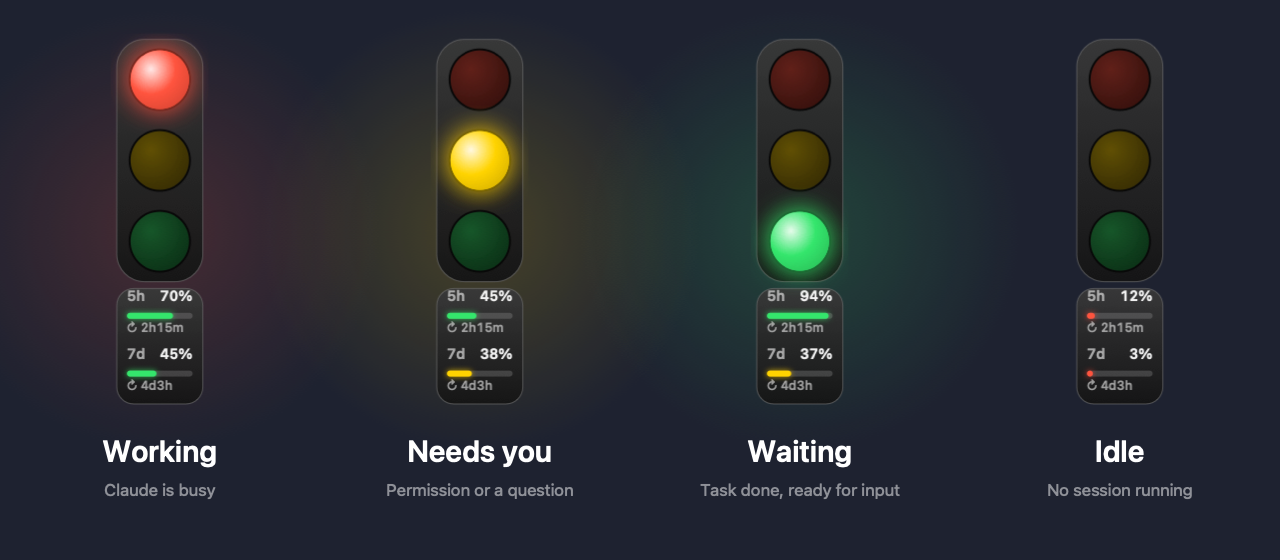
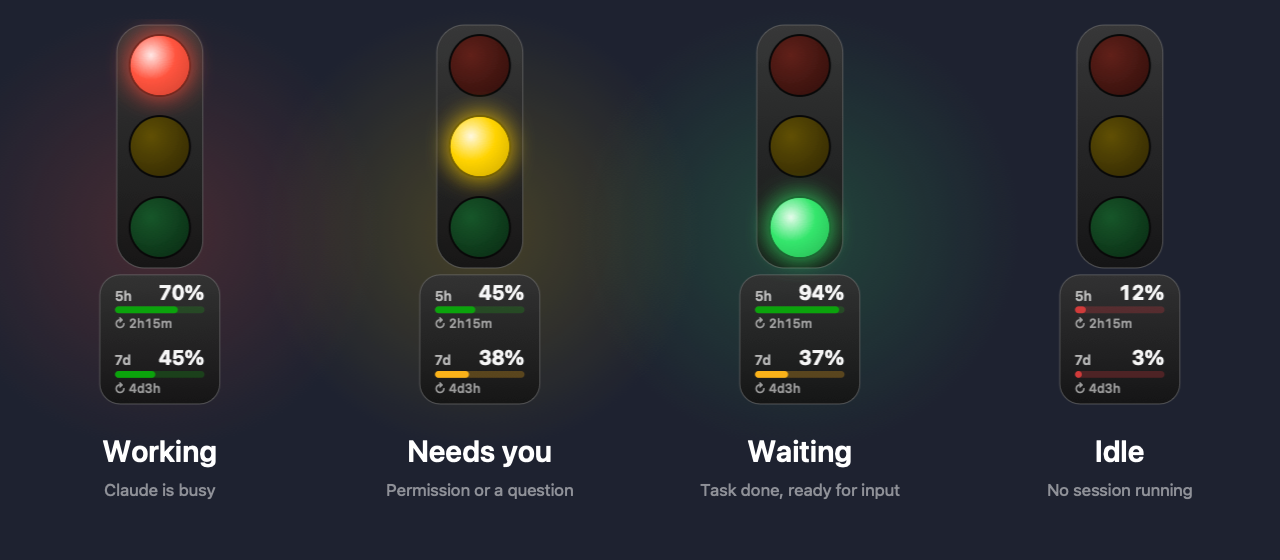
Redesign quota display: status-colour meters, two-row menu bar readout
- Gauge: wider plinth card, large percentage, thin rounded status-colour
  bars on a lighter same-hue track, countdown line; no glow
- Menu bar: custom two-row image (5h above 7d) with bar, remaining % and
  countdown; adapts to light/dark menu bars; emoji fallback when off
- README images (banner, states, menu bar preview) regenerated

diff --git a/Sources/main.swift b/Sources/main.swift
@@ -349,11 +349,21 @@ enum QuotaFetcher {
     }
 }
 
+/// Statusfarben für Restkontingent (fest, nie themenabhängig): gut / Warnung / kritisch.
+func quotaStatusColor(_ remaining: Double) -> NSColor {
+    if remaining > 40 { return NSColor(srgbRed: 0x0c / 255, green: 0xa3 / 255, blue: 0x0c / 255, alpha: 1) }
+    if remaining > 15 { return NSColor(srgbRed: 0xfa / 255, green: 0xb2 / 255, blue: 0x19 / 255, alpha: 1) }
+    return NSColor(srgbRed: 0xd0 / 255, green: 0x3b / 255, blue: 0x3b / 255, alpha: 1)
+}
+
 // MARK: - Ampel-Darstellung
 
 final class TrafficLightView: NSView {
     /// Höhe des Kontingent-Bereichs unter der Ampel (bei Skalierung 1.0)
-    static let gaugeAreaHeight: CGFloat = 72
+    static let gaugeAreaHeight: CGFloat = 80
+    /// Breite des Fensters mit / ohne Kontingent-Sockel (bei Skalierung 1.0)
+    static let panelWidth: CGFloat = 58
+    static let panelWidthWithQuota: CGFloat = 78
 
     var state: LightState = .off { didSet { needsDisplay = true } }
     var quota: QuotaSnapshot? { didSet { needsDisplay = true } }
@@ -365,7 +375,7 @@ final class TrafficLightView: NSView {
     override var mouseDownCanMoveWindow: Bool { true }
     override func rightMouseDown(with event: NSEvent) { onRightClick?(event) }
 
-    private func color(for s: LightState) -> NSColor {
+    func color(for s: LightState) -> NSColor {
         switch s {
         case .red: return NSColor(calibratedRed: 1.0, green: 0.23, blue: 0.19, alpha: 1)
         case .yellow: return NSColor(calibratedRed: 1.0, green: 0.80, blue: 0.0, alpha: 1)
@@ -374,15 +384,11 @@ final class TrafficLightView: NSView {
         }
     }
 
-    private func quotaColor(_ remaining: Double) -> NSColor {
-        remaining > 40 ? color(for: .green) : remaining > 15 ? color(for: .yellow) : color(for: .red)
-    }
-
     /// Zeichnet die Kapsel mit den zwei Restanzeigen (5h / 7d).
     private func drawGauge(in rect: NSRect) {
         let s = uiScale
-        let capsule = NSBezierPath(roundedRect: rect, xRadius: 10 * s, yRadius: 10 * s)
-        NSGradient(starting: NSColor(white: 0.22, alpha: 0.96), ending: NSColor(white: 0.08, alpha: 0.96))?
+        let capsule = NSBezierPath(roundedRect: rect, xRadius: 12 * s, yRadius: 12 * s)
+        NSGradient(starting: NSColor(white: 0.20, alpha: 0.96), ending: NSColor(white: 0.08, alpha: 0.96))?
             .draw(in: capsule, angle: -90)
         NSColor(white: 0.45, alpha: 0.6).setStroke()
         capsule.lineWidth = 1
@@ -391,56 +397,46 @@ final class TrafficLightView: NSView {
         let dim: CGFloat = (quota?.isStale ?? false) ? 0.5 : 1.0
         let rows: [(String, QuotaWindow?)] = [("5h", quota?.fiveHour), ("7d", quota?.sevenDay)]
         let rowH = rect.height / 2
-        let inset = 6 * s
-        let font = NSFont.monospacedDigitSystemFont(ofSize: 8.5 * s, weight: .semibold)
-        let barH = 3.5 * s
-        let small = NSFont.monospacedDigitSystemFont(ofSize: 7.5 * s, weight: .medium)
+        let x = rect.minX + 9 * s
+        let w = rect.width - 18 * s
+        let labelFont = NSFont.systemFont(ofSize: 8 * s, weight: .semibold)
+        let pctFont = NSFont.monospacedDigitSystemFont(ofSize: 12 * s, weight: .bold)
+        let smallFont = NSFont.monospacedDigitSystemFont(ofSize: 7.5 * s, weight: .medium)
+        let barH = 4 * s
+        let gap = 3.5 * s
+
+        func draw(_ str: String, _ font: NSFont, _ alpha: CGFloat, baseline: CGFloat, right: Bool = false) {
+            let a = NSAttributedString(string: str, attributes: [
+                .font: font, .foregroundColor: NSColor(white: 1, alpha: alpha * dim)])
+            a.draw(at: NSPoint(x: right ? x + w - a.size().width : x, y: baseline + font.descender))
+        }
 
         for (i, row) in rows.enumerated() {
-            let rowTop = rect.maxY - rowH * CGFloat(i)
-            let contentH = font.capHeight + 3 * s + barH + 5.5 * s + small.capHeight
-            let contentBottom = rowTop - rowH / 2 - contentH / 2
-            let bottom = contentBottom + small.capHeight + 5.5 * s   // Unterkante des Balkens
-            let x = rect.minX + inset
-            let w = rect.width - inset * 2
+            let contentH = pctFont.capHeight + gap + barH + gap + smallFont.capHeight
+            let top = rect.maxY - rowH * (CGFloat(i) + 0.5) + contentH / 2
+            let line1 = top - pctFont.capHeight
+            let barY = line1 - gap - barH
+            let line3 = barY - gap - smallFont.capHeight
 
-            // Restzeit bis zum Reset
-            let cdText = row.1 == nil ? "" : "↻ " + (row.1?.countdown ?? "…")
-            NSAttributedString(string: cdText, attributes: [
-                .font: small, .foregroundColor: NSColor(white: 1, alpha: 0.5 * dim)])
-                .draw(at: NSPoint(x: x, y: contentBottom - small.descender))
+            draw(row.0, labelFont, 0.62, baseline: line1)
+            let remaining = row.1?.remaining
+            let tint = remaining.map { quotaStatusColor($0) } ?? NSColor(white: 1, alpha: 1)
 
-            // Balken
-            let track = NSRect(x: x, y: bottom, width: w, height: barH)
-            NSColor(white: 1, alpha: 0.12).setFill()
+            // Spur = hellere Stufe derselben Farbe, Füllung = Statusfarbe (dünn, voll gerundet)
+            let track = NSRect(x: x, y: barY, width: w, height: barH)
+            tint.withAlphaComponent(remaining == nil ? 0.12 : 0.22).setFill()
             NSBezierPath(roundedRect: track, xRadius: barH / 2, yRadius: barH / 2).fill()
 
-            let textY = bottom + barH + 3 * s - font.descender
-            let label = NSAttributedString(string: row.0, attributes: [
-                .font: font, .foregroundColor: NSColor(white: 1, alpha: 0.55 * dim)])
-            label.draw(at: NSPoint(x: x, y: textY))
-
             if let win = row.1 {
-                let c = quotaColor(win.remaining).withAlphaComponent(dim)
-                let fill = NSRect(x: x, y: bottom, width: max(barH, w * CGFloat(win.remaining / 100)), height: barH)
                 if win.remaining > 0 {
-                    NSGraphicsContext.saveGraphicsState()
-                    let glow = NSShadow()
-                    glow.shadowColor = c.withAlphaComponent(0.6)
-                    glow.shadowBlurRadius = 3 * s
-                    glow.shadowOffset = .zero
-                    glow.set()
-                    c.setFill()
+                    let fill = NSRect(x: x, y: barY, width: max(barH, w * CGFloat(win.remaining / 100)), height: barH)
+                    tint.withAlphaComponent(dim).setFill()
                     NSBezierPath(roundedRect: fill, xRadius: barH / 2, yRadius: barH / 2).fill()
-                    NSGraphicsContext.restoreGraphicsState()
                 }
-                let pct = NSAttributedString(string: "\(Int(win.remaining.rounded()))%", attributes: [
-                    .font: font, .foregroundColor: NSColor(white: 1, alpha: 0.92 * dim)])
-                pct.draw(at: NSPoint(x: x + w - pct.size().width, y: textY))
+                draw("\(Int(win.remaining.rounded()))%", pctFont, 0.95, baseline: line1, right: true)
+                draw("↻ " + (win.countdown ?? "…"), smallFont, 0.5, baseline: line3)
             } else {
-                let pct = NSAttributedString(string: "--", attributes: [
-                    .font: font, .foregroundColor: NSColor(white: 1, alpha: 0.35)])
-                pct.draw(at: NSPoint(x: x + w - pct.size().width, y: textY))
+                draw("--", pctFont, 0.35, baseline: line1, right: true)
             }
         }
     }
@@ -448,12 +444,16 @@ final class TrafficLightView: NSView {
     override func draw(_ dirtyRect: NSRect) {
         let pad: CGFloat = 6   // Platz für den Leuchtschein
         var lightsBounds = bounds
+        var housingW = bounds.width - pad * 2
         if showQuota {
             let gaugeH = Self.gaugeAreaHeight * uiScale
             lightsBounds = NSRect(x: 0, y: gaugeH, width: bounds.width, height: bounds.height - gaugeH)
+            housingW = Self.panelWidth * uiScale - pad * 2
             drawGauge(in: NSRect(x: pad, y: pad, width: bounds.width - pad * 2, height: gaugeH - 4 * uiScale))
         }
-        let body = lightsBounds.insetBy(dx: pad, dy: pad)
+        let inner = lightsBounds.insetBy(dx: 0, dy: pad)
+        let body = NSRect(x: lightsBounds.midX - housingW / 2, y: inner.minY, width: housingW, height: inner.height)
+
         let radius = body.width * 0.32
 
         // Gehäuse
@@ -563,14 +563,16 @@ final class AppDelegate: NSObject, NSApplicationDelegate, NSMenuDelegate {
     // MARK: Schwebendes Fenster
 
     private var baseSize: NSSize {
-        NSSize(width: 58 * scale, height: (150 + (showQuota ? TrafficLightView.gaugeAreaHeight : 0)) * scale)
+        NSSize(width: (showQuota ? TrafficLightView.panelWidthWithQuota : TrafficLightView.panelWidth) * scale,
+               height: (150 + (showQuota ? TrafficLightView.gaugeAreaHeight : 0)) * scale)
     }
 
     /// Fenstergröße anpassen; die Oberkante bleibt an Ort und Stelle.
     private func applyPanelSize() {
         let top = panel.frame.maxY
+        let midX = panel.frame.midX   // Mitte bleibt, wenn sich die Breite ändert
         let size = baseSize
-        panel.setFrame(NSRect(x: panel.frame.minX, y: top - size.height, width: size.width, height: size.height), display: true)
+        panel.setFrame(NSRect(x: midX - size.width / 2, y: top - size.height, width: size.width, height: size.height), display: true)
         lightView.uiScale = scale
         lightView.showQuota = showQuota
     }
@@ -634,7 +636,7 @@ final class AppDelegate: NSObject, NSApplicationDelegate, NSMenuDelegate {
             lightView.state = state
             lightView.blinkOn = true
         }
-        statusItem.button?.attributedTitle = statusTitle(state)
+        updateStatusItem(state)
         let minute = Int(Date().timeIntervalSince1970 / 60)
         if minute != lastMinute { lastMinute = minute; lightView.needsDisplay = true }
         statusItem.button?.toolTip = "Claude Code 红绿灯 – " + (monitoringEnabled ? state.label : "已暂停")
@@ -643,18 +645,73 @@ final class AppDelegate: NSObject, NSApplicationDelegate, NSMenuDelegate {
         refreshQuotaIfNeeded()
     }
 
-    /// Menüleisten-Titel: Ampel-Emoji + Rest-% und Zeit bis zum Reset je Fenster.
-    private func statusTitle(_ state: LightState) -> NSAttributedString {
-        let font = NSFont.monospacedDigitSystemFont(ofSize: 11, weight: .medium)
-        guard monitoringEnabled else { return NSAttributedString(string: "⚫", attributes: [.font: font]) }
-        var text = state.emoji
-        if showQuota, showStatusQuota, let q = quota {
-            for (name, w) in [("5h", q.fiveHour), ("7d", q.sevenDay)] {
-                guard let w else { continue }
-                text += " \(name) \(Int(w.remaining.rounded()))%·\(w.countdown ?? "…")"
-            }
+    private var statusKey = ""
+
+    /// Menüleiste: Ampelpunkt + zwei Zeilen (5h oben, 7d unten) mit Balken, Rest-% und Zeit bis zum Reset.
+    private func updateStatusItem(_ state: LightState) {
+        guard let button = statusItem.button else { return }
+        let rows: [(String, QuotaWindow)] = monitoringEnabled && showQuota && showStatusQuota
+            ? [("5h", quota?.fiveHour), ("7d", quota?.sevenDay)].compactMap { n, w in w.map { (n, $0) } } : []
+        let key = "\(monitoringEnabled)|\(state)|" + rows.map { "\($0.0)\(Int($0.1.remaining.rounded()))\($0.1.countdown ?? "…")" }.joined(separator: "|")
+        guard key != statusKey else { return }
+        statusKey = key
+
+        guard !rows.isEmpty else {   // klassisch: nur Emoji
+            button.image = nil
+            button.imagePosition = .noImage
+            button.attributedTitle = NSAttributedString(string: monitoringEnabled ? state.emoji : "⚫",
+                                                        attributes: [.font: NSFont.systemFont(ofSize: 13)])
+            return
         }
-        return NSAttributedString(string: text, attributes: [.font: font])
+        button.title = ""
+        button.imagePosition = .imageOnly
+        button.image = statusImage(lamp: lightView.color(for: state), lit: state != .off, rows: rows)
+    }
+
+    private func statusImage(lamp: NSColor, lit: Bool, rows: [(String, QuotaWindow)]) -> NSImage {
+        let h: CGFloat = 22, lampD: CGFloat = 10
+        let labelFont = NSFont.systemFont(ofSize: 7.5, weight: .semibold)
+        let pctFont = NSFont.monospacedDigitSystemFont(ofSize: 8.5, weight: .bold)
+        let timeFont = NSFont.monospacedDigitSystemFont(ofSize: 7.5, weight: .medium)
+        let labelW: CGFloat = 11, barW: CGFloat = 34, barH: CGFloat = 3.5, pctW: CGFloat = 23, timeW: CGFloat = 29
+        let x0: CGFloat = 4 + lampD + 6
+        let width = x0 + labelW + barW + 4 + pctW + 3 + timeW + 3
+
+        return NSImage(size: NSSize(width: width, height: h), flipped: false) { _ in
+            // Ampelpunkt
+            let dot = NSRect(x: 4, y: (h - lampD) / 2, width: lampD, height: lampD)
+            NSGraphicsContext.saveGraphicsState()
+            if lit {
+                let g = NSShadow(); g.shadowColor = lamp.withAlphaComponent(0.8); g.shadowBlurRadius = 3; g.shadowOffset = .zero; g.set()
+            }
+            (lit ? lamp : NSColor.secondaryLabelColor).setFill()
+            NSBezierPath(ovalIn: dot).fill()
+            NSGraphicsContext.restoreGraphicsState()
+
+            func text(_ str: String, _ font: NSFont, _ color: NSColor, x: CGFloat, baseline: CGFloat, width: CGFloat = 0, right: Bool = false) {
+                let a = NSAttributedString(string: str, attributes: [.font: font, .foregroundColor: color])
+                a.draw(at: NSPoint(x: right ? x + width - a.size().width : x, y: baseline + font.descender))
+            }
+            for (i, row) in rows.enumerated() {
+                let mid = h / 2 + (i == 0 ? 5.5 : -5.5)
+                let base = mid - pctFont.capHeight / 2
+                let tint = quotaStatusColor(row.1.remaining)
+                text(row.0, labelFont, .secondaryLabelColor, x: x0, baseline: mid - labelFont.capHeight / 2)
+
+                let bar = NSRect(x: x0 + labelW, y: mid - barH / 2, width: barW, height: barH)
+                tint.withAlphaComponent(0.25).setFill()
+                NSBezierPath(roundedRect: bar, xRadius: barH / 2, yRadius: barH / 2).fill()
+                if row.1.remaining > 0 {
+                    var f = bar; f.size.width = max(barH, barW * CGFloat(row.1.remaining / 100))
+                    tint.setFill()
+                    NSBezierPath(roundedRect: f, xRadius: barH / 2, yRadius: barH / 2).fill()
+                }
+                let px = x0 + labelW + barW + 4
+                text("\(Int(row.1.remaining.rounded()))%", pctFont, .labelColor, x: px, baseline: base, width: pctW, right: true)
+                text(row.1.countdown ?? "…", timeFont, .secondaryLabelColor, x: px + pctW + 3, baseline: mid - timeFont.capHeight / 2, width: timeW, right: true)
+            }
+            return true
+        }
     }
 
     private func refreshQuotaIfNeeded() {

diff --git a/README.de.md b/README.de.md
@@ -27,7 +27,10 @@ Lumen schwebt über allen Fenstern (und in der Menüleiste) und zeigt auf einen 
 - **Vier Zustände**, gesteuert über Claude-Code-Hooks – kein Auslesen der Terminalausgabe
 - **Mehrere Sessions**: Bei mehreren laufenden Sessions gewinnt die dringendste (🟡 > 🔴 > 🟢)
 - **Kontingent-Anzeige**: verbleibende Prozent für das 5h- und 7d-Fenster, farbige Balken und ein Live-Countdown bis zum nächsten Reset
-- **Menüleisten-Anzeige**: z. B. `🟢 5h 94%·2h14m 7d 37%·4d3h` – verbleibendes Kontingent und Zeit bis zum Reset immer im Blick
+- **Menüleisten-Anzeige**: zwei Zeilen (5h oben, 7d unten) mit Balken, verbleibenden Prozent und Zeit bis zum Reset – immer im Blick
+
+<p align="center"><img src="docs/menubar.png" alt="Menüleisten-Anzeige (dunkel / hell)" width="360"></p>
+
 - Drei Größen, Start bei der Anmeldung, Hooks mit einem Klick entfernen, keine Abhängigkeiten
 
 | Licht | Bedeutung | Ausgelöst durch |
@@ -59,7 +62,7 @@ Beim ersten Start trägt Lumen seine Hooks in `~/.claude/settings.json` ein (das
 Angezeigt wird, was **übrig** ist – nicht, was verbraucht wurde:
 
 - Balkenfarbe: > 40 % grün, 15–40 % gelb, < 15 % rot. `--` heißt: noch keine Daten; Werte, die älter als 10 Minuten sind, werden abgedunkelt
-- `↻ 2h14m` unter jedem Balken ist die Zeit bis zum Reset des Fensters; dieselben Werte stehen in der Menüleiste (`5h 94%·2h14m`). Mit dem Mauszeiger über der Ampel oder im Menü siehst du den genauen Zeitpunkt
+- `↻ 2h14m` unter jedem Balken ist die Zeit bis zum Reset des Fensters; dieselben Werte stehen in der Menüleiste (zwei Balken). Mit dem Mauszeiger über der Ampel oder im Menü siehst du den genauen Zeitpunkt
 - Sobald ein Fenster zurückgesetzt wird, aktualisiert Lumen die Werte sofort
 - Die Menüleisten-Anzeige lässt sich im Menü separat ausschalten
 - **Datenquelle:** Alle 3 Minuten liest Lumen das OAuth-Token von Claude Code aus dem macOS-Schlüsselbund (`Claude Code-credentials`) und ruft `api.anthropic.com/api/oauth/usage` auf. Das ist ein **nicht dokumentierter Endpunkt**, der sich jederzeit ändern oder wegfallen kann. Das Token wird nur für diese Anfrage verwendet und nie gespeichert

diff --git a/README.md b/README.md
@@ -27,7 +27,10 @@ Lumen sits on top of your windows (and in the menu bar) and tells you at a glanc
 - **Four states** driven by Claude Code hooks – no polling of terminal output
 - **Multi-session aware** – with several sessions running, the most urgent one wins (🟡 > 🔴 > 🟢)
 - **Quota gauge** – remaining % for the 5h and 7d windows with colour-coded bars and a live countdown to the next reset
-- **Menu bar readout** – e.g. `🟢 5h 94%·2h14m 7d 37%·4d3h`: remaining quota and time until reset, always visible
+- **Menu bar readout** – two rows (5h on top, 7d below), each with a bar, remaining % and time until reset, always visible
+
+<p align="center"><img src="docs/menubar.png" alt="Menu bar readout in dark and light" width="360"></p>
+
 - Three sizes, launch at login, one-click hook uninstall, zero dependencies
 
 | Light | Meaning | Triggered by |
@@ -59,7 +62,7 @@ On first launch Lumen writes its hooks into `~/.claude/settings.json` (the origi
 The gauge shows what is **left**, not what is used:
 
 - Bar colour: > 40 % green, 15–40 % yellow, < 15 % red. `--` means no data yet; values older than 10 minutes are dimmed
-- `↻ 2h14m` under each bar is the time until that window resets; the same numbers appear in the menu bar (`5h 94%·2h14m`). Hover the light or open the menu for the exact reset time
+- `↻ 2h14m` under each bar is the time until that window resets; the same numbers appear in the menu bar (two bars). Hover the light or open the menu for the exact reset time
 - When a window resets, Lumen refreshes the numbers right away
 - The menu bar readout can be turned off separately in the menu
 - **Data source:** every 3 minutes Lumen reads Claude Code's OAuth token from the macOS Keychain (`Claude Code-credentials`) and calls `api.anthropic.com/api/oauth/usage`. This is an **undocumented endpoint** and may change or stop working at any time. The token is used only for this request and never stored
